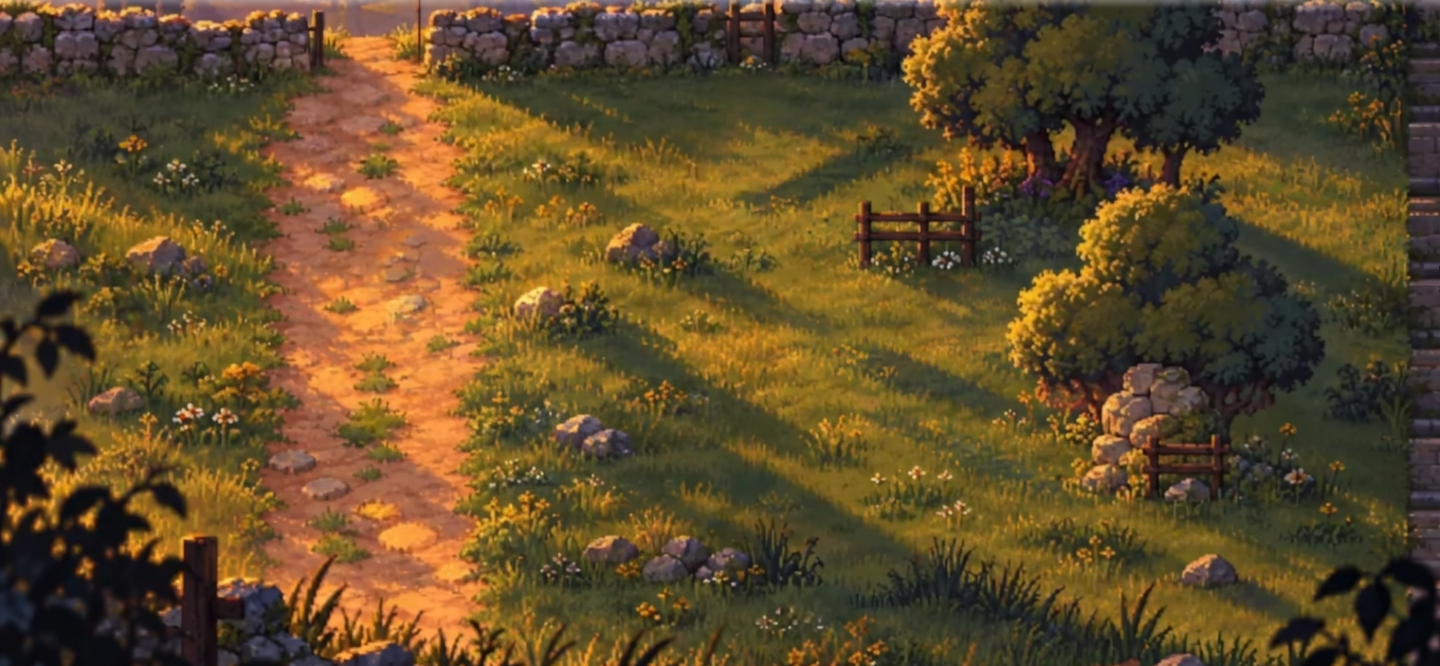
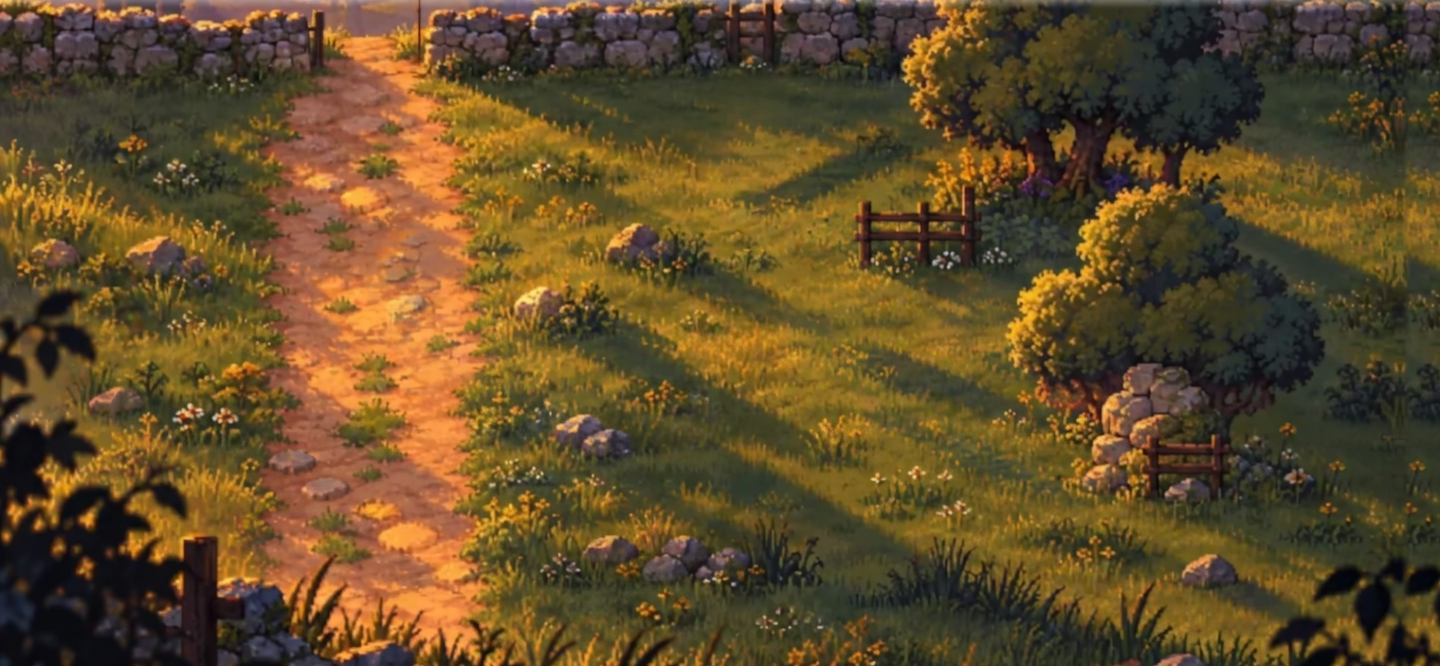
Verify seeded browser boots and clean prototype edge

Changed region(s): [[0.9688, 0.0, 1.0, 1.0]]

diff --git a/tools/proto/clean_backdrop_edge.py b/tools/proto/clean_backdrop_edge.py
@@ -1,0 +1,59 @@
+#!/usr/bin/env python3
+"""Remove the reference viewer's right-hand strip from the prototype backdrop.
+
+Only the rightmost 40 pixels of the edited 1440x666 painting are replaced.
+An adjacent reflected edge is blended into another nearby grass/wall sample so
+there is no hard boundary or obvious mirror line. This is a small, approximate
+paint-over, not new authored scenery. Both samples lie to the left of the edit,
+so applying it again is deterministic and cannot alter the rest of the field.
+
+    python3 tools/proto/clean_backdrop_edge.py          # update the image
+    python3 tools/proto/clean_backdrop_edge.py --check  # check the committed PNG
+"""
+import argparse
+from pathlib import Path
+
+from PIL import Image, ImageChops, ImageOps
+
+BACKDROP = Path("art/proto/shepherd_field_empty.png")
+SIZE = (1440, 666)
+START = 1400
+WIDTH = 40
+
+
+def clean_edge(source: Image.Image) -> Image.Image:
+    if source.size != SIZE or source.mode != "RGB":
+        raise ValueError("expected an RGB 1440x666 prototype backdrop")
+    height = source.height
+    # The first sample meets the old edge continuously; the second avoids a
+    # conspicuous symmetric motif as the strip approaches the outside edge.
+    reflected = ImageOps.mirror(source.crop((1360, 0, 1400, height)))
+    nearby = source.crop((1320, 0, 1360, height))
+    ramp = Image.new("L", (WIDTH, 1))
+    for x in range(WIDTH):
+        t = min(1.0, x / 12.0)
+        ramp.putpixel((x, 0), round(255 * t * t * (3.0 - 2.0 * t)))
+    patch = Image.composite(nearby, reflected, ramp.resize((WIDTH, height)))
+    result = source.copy()
+    result.paste(patch, (START, 0))
+    return result
+
+
+def main() -> None:
+    parser = argparse.ArgumentParser(description=__doc__)
+    parser.add_argument("--check", action="store_true", help="fail if the backdrop edge is not cleaned")
+    args = parser.parse_args()
+    with Image.open(BACKDROP) as original:
+        image = original.copy()
+    cleaned = clean_edge(image)
+    if args.check:
+        if ImageChops.difference(image, cleaned).getbbox() is not None:
+            raise SystemExit("prototype backdrop edge is not cleaned")
+        print("prototype backdrop edge: PASS")
+    else:
+        cleaned.save(BACKDROP)
+        print("cleaned %s, x=%d..%d" % (BACKDROP, START, SIZE[0] - 1))
+
+
+if __name__ == "__main__":
+    main()

diff --git a/docs/AGENT_CONTINUATION.md b/docs/AGENT_CONTINUATION.md
@@ -4,7 +4,9 @@
 - **Base:** `cec25b525d44dff3b96970415fa2232a13e9d676` on `main`.
 - **Latest fully verified implementation:** `b83c753`, tested in [run 42953016636](https://github.com/fongway94/WalkInCovenant/actions/runs/42953016636). Native prototype, both frame publishers, lint, visual, web export, isolated prototype browser and production browser passed; deploy was skipped.
 - **Milestone:** an isolated playable field with independent, reference-matted shepherd and sheep, interaction, movement and selected depth layers. It is closer to the approved reference but **not visually complete or production-ready**.
-- **In progress:** `b9686d2` broadens/softens the sheep contact and reduces body bob after the inspected `b83c753` frame exposed detached dark ovals. Its native and isolated-Web jobs passed and their real frames were inspected in [run 42955805136](https://github.com/fongway94/WalkInCovenant/actions/runs/42955805136), but the overall run failed in the separate production-browser job. The post-victory test loaded a default save (`[16,45]`, no `goliath_down`) instead of its seeded state; this is consistent with the known live-page IDBFS race. A test-harness-only fix and unit tests are awaiting CI.
+- **In progress:** `b9686d2` broadens/softens sheep contact and reduces body bob. Native and isolated-Web jobs passed and their frames were inspected in [run 42955805136](https://github.com/fongway94/WalkInCovenant/actions/runs/42955805136), but the separate production-browser job loaded a fresh save instead of its post-victory seed and failed. A test-harness-only seed fix followed in `d3e1ffc`.
+- **Latest completed run:** [42958665393](https://github.com/fongway94/WalkInCovenant/actions/runs/42958665393) passed native and isolated-Web prototype jobs, lint, visual and export, and skipped deploy. Its production browser reached `goliath_down` in 31 presses and `elah_ended` in 16 post-victory presses, but failed both newly added seed-write checks: the HUD-click marker never appeared (28/30 checks passed). Both seeded progress snapshots matched, but those bytes alone cannot prove the engine had written them. The resumed duel starts on a dialogue trigger, making the click unreliable.
+- **Next validation:** a test-only version-normalization marker now waits for an engine-written save, and the duel starts south of the trigger before walking north. The predicates require an unwon duel and an unfinished post-victory state; ending assertions remain intact. A 40-pixel approximate paint-over also removes the reference viewer strip seen at the backdrop's right edge in the prior Web frames. Both changes need a new CI run and real-frame review.
 
 ## Completed and verified
 
@@ -13,9 +15,9 @@
 - [x] Replaced inadequate keyed sprites with contours matted from the user's approved reference. `tools/proto/extract_reference_sprites.py` reproduces the two sheep variants and David/body/boot layers. The boot layers give a small alternating stride, not authored directional animation. Two baked sheep stride extremes change only reference-derived feet, without additional sprite draws.
 - [x] Replaced the filled foreground polygon with a silhouette/stone matte. The real `proto_03_occlusion` frame shows David's head and torso, with grass/stone partially covering his lower body. The matte is approximate and needs broader traversal review.
 - [x] Added a world-aligned upper-tree copy and one traced fence. Actors select depth bands by foot y; y-sort still orders actors inside a band. Each full-size texture shares the backdrop's exact origin; the draw regions clip transparent horizontal margins while retaining the full height. The renderer checks show no significant sampled background drift at the tested views, including a 960×540 window.
-- [x] Latest render log: walk `dx=73.5`, sheep movement `14.7`, boot stride `2.00`, rock stop `x=612.0`, trunk stop `x=1148.0`, fence stops `y=226.0/280.0` from opposite sides; near interaction counts once and a distant interaction is rejected. The harness explicitly requires `PROTO PASS`.
+- [x] `42958665393` render log: walk `dx=74.7`, sheep movement `14.9`, boot stride `2.00`, rock stop `x=612.0`, trunk stop `x=1148.0`, fence stops `y=226.0/280.0` from opposite sides; near interaction counts once and a distant interaction is rejected. The harness explicitly requires `PROTO PASS`.
 - [x] Renderer toggles in the latest run changed **104/0** sampled actor pixels behind/in front of the tree and **23/0** behind/in front of the fence; each object's sampled background difference was **0/0**. Empty-scene checks at two camera positions and a 960×540 physical window each found zero significant sampled differences. These are sampled checks, not proof for every location.
-- [x] Actual camera-frame registration predicted a horizontal shift of `-35.33px`, measured `-36px` (error `0.67px`); aligned background residual `5.04` versus `30.35` unaligned. This is a landmark check, not a complete depth/collision audit.
+- [x] Camera-frame registration in `42958665393` predicted a horizontal shift of `-35.99px`, measured `-36px` (error `0.01px`); aligned background residual `5.12` versus `30.39` unaligned. This is a landmark check, not a complete depth/collision audit.
 - [x] Frozen 320×180 versus 640×360 logical renders were compared in `42945561632`. Both were captured at 1280×720 and transported at 640×360; the 640 UI/placement was somewhat cleaner, with broadly similar field detail. Filtering is nearest in the scene and the WebP evidence is lossy. No performance conclusion follows from stills.
 - [x] Higher-detail native frames use 640×360 WebP, a single joined `PROTOLOG`, and two annotation publishers. The latest native run used quality 75 and 85 frame notices split 46/39; the overflow publisher also works on failed visual tests for diagnosis.
 - [x] `docs/art-reset/comparison/shepherd_field_ci_comparison.png` was rebuilt and inspected using only the approved reference and decoded real Godot frames from baseline `42942725993` and improved run `42955805136`. It labels the different framing and includes an approximately matched field crop. `shepherd_field_shadow_ci.png` separately compares staged real-frame sheep crops against the reference and prior run `42953016636`.
@@ -43,7 +45,9 @@ Experiments `9a77db9`, `2a2a3f3`, and `8f4fa9e` had failing prototype jobs. `8f4
 - [x] The same run's 640-width full/clipped/clipped/full trials were 19.1 / 27.3 / 27.0 / 19.1 fps on AMD EPYC 9V74 / Chromium SwiftShader. Like the earlier run, these are short instrumented software-renderer observations, not physical-device FPS.
 - [x] The `b9686d2` native render passed left/right shadow on/off sampling for both variants and both facing directions: `44/91`, `51/84`, `49/91`, and `53/87` changed samples. All native gameplay frames and the staged gait comparison were inspected; the detached black oval is reduced. These sampled checks do not guarantee quality for every pose.
 - [x] The `b9686d2` isolated-Web job passed with movement at both logical widths; all three decoded browser screenshots were inspected. Its 640-width full/clipped/clipped/full sequence measured 25.3 / 35.6 / 35.9 / 25.4 fps on an AMD EPYC 9V45 with Chromium/SwiftShader. The full and clipped p95 intervals were about 66.7 ms and 33.4 ms, respectively. These short instrumented trials do not represent mobile or hardware-GPU FPS.
-- [ ] Push and validate the production-browser test fix: close the live game page before rewriting the seed from a non-game page, then open a fresh game page and require the actual expected post-victory save, with up to three attempts. Run `node --test tests/browser/seeded_boot.test.cjs`, inspect the new full CI outcome and production-browser checks, and do not weaken the real ending assertion. Deploy in `42955805136` was skipped.
+- [x] The `d3e1ffc` isolated-Web job also passed; all three decoded screenshots were inspected. Its 640-width full/clipped/clipped/full sequence was 12.1 / 17.4 / 17.5 / 12.1 fps on an Intel Xeon Platinum 8370C / Chromium SwiftShader. Different CI CPUs preclude cross-run speed comparisons. The panned screenshots exposed the viewer strip at the right edge, prompting the pending local paint-over.
+- [ ] Push and validate the revised production-browser test fix. It closes the game before seeding from a non-game page, then requires both the expected story state and a version normalized by the running engine before accepting the boot. Run `node --test tests/browser/seeded_boot.test.cjs`, inspect the full CI outcome and production-browser checks, and do not weaken the real ending assertion. Deploy in `42958665393` was skipped.
+- [ ] Inspect a new isolated-Web rightward walk after the 40-pixel backdrop edge paint-over. The previous real Web screenshots exposed the reference viewer's right strip; the paint-over is an approximate adjacent-texture blend and only its rightmost 40 source pixels change. `python3 tools/proto/clean_backdrop_edge.py --check` checks the deterministic edit, not its visual quality.
 - [ ] Further art work: author genuinely directional/walking sheep and David animation rather than flipping baked highlights; inspect edge halos and shadows; stress sheep clearance across paths; and add only justified depth/collision layers for remaining trees, fence and foreground. The backdrop is still mostly a flat edited painting, so some world objects cannot yet occlude actors correctly.
 
 The reference is `docs/art-reset/user_selected_reference.png` (681×348); its bottom arrow and right strip are viewer UI, not world art. The 1440×666 edited backdrop is not pixel-identical. The two full-world transparent depth textures still consume texture memory, and clipping has only been sampled at the tested window sizes. Real-device profiling and more resize/path coverage are still needed. No production gameplay scene, chapter, save or live deployment is in scope.
@@ -56,6 +60,7 @@ python3 tools/gd_lint.py
 python3 tools/xref_check.py
 python3 tools/api_check.py
 node --test tests/browser/seeded_boot.test.cjs
+python3 tools/proto/clean_backdrop_edge.py --check
 python3 -c 'import yaml; d=yaml.safe_load(open(".github/workflows/build-web.yml")); assert d["jobs"]["deploy"]["if"] == "github.ref == '\''refs/heads/main'\'' || (github.event_name == '\''workflow_dispatch'\'' && inputs.publish_preview)"; print("YAML/deploy guard OK")'
 python3 tools/proto/decode_proto.py <run-id> build/proto_<run-id>
 python3 tools/proto/decode_proto.py <run-id> build/proto_browser_<run-id> --browser

diff --git a/docs/art-reset/SHEPHERD_FIELD_REVIEW.md b/docs/art-reset/SHEPHERD_FIELD_REVIEW.md
@@ -21,9 +21,11 @@ Use the arrow keys to move. Press Space near a sheep to make it hop and count it
 
 ## What has been checked
 
-The [native CI render](https://github.com/fongway94/WalkInCovenant/actions/runs/42955805136) exercised movement, interaction, camera tracking, rock/trunk/fence collisions, sampled tree/fence occlusion and background alignment, including a 960×540 window. It also checked both sheep stride poses, idle, blocking, hopping and sampled shadow contact in both facing directions. Pixel checks cover only the tested views and positions.
+The [native CI render](https://github.com/fongway94/WalkInCovenant/actions/runs/42958665393) exercised movement, interaction, camera tracking, rock/trunk/fence collisions, sampled tree/fence occlusion and background alignment, including a 960×540 window. It also checked both sheep stride poses, idle, blocking, hopping and sampled shadow contact in both facing directions. Pixel checks cover only the tested views and positions.
 
-The [same-runner browser experiment](https://github.com/fongway94/WalkInCovenant/actions/runs/42955805136) loaded and moved the prototype in headless Chromium/SwiftShader. Its clipped depth layers rendered faster than full quads in short software-rendered trials; this is **not** a phone, hardware-GPU or production performance measurement. The overall run failed in a separate production-browser test because its post-victory seed was not loaded; a test-setup correction is awaiting another CI run.
+The [same-runner browser experiment](https://github.com/fongway94/WalkInCovenant/actions/runs/42958665393) loaded and moved the prototype in headless Chromium/SwiftShader. Its clipped depth layers rendered faster than full quads in short software-rendered trials; this is **not** a phone, hardware-GPU or production performance measurement. The overall run failed two separate production-browser seed-verification checks: the duel and post-victory ending did complete, but the new HUD-click write-back marker was not observed. A revised test-only marker is awaiting CI; no production gameplay code was changed.
+
+A narrow viewer strip was also visible at the backdrop's right edge during the browser walk. The isolated backdrop now has an approximate 40-pixel paint-over there; its appearance in a new rendered pan still needs CI review.
 
 ## Still needed
 
